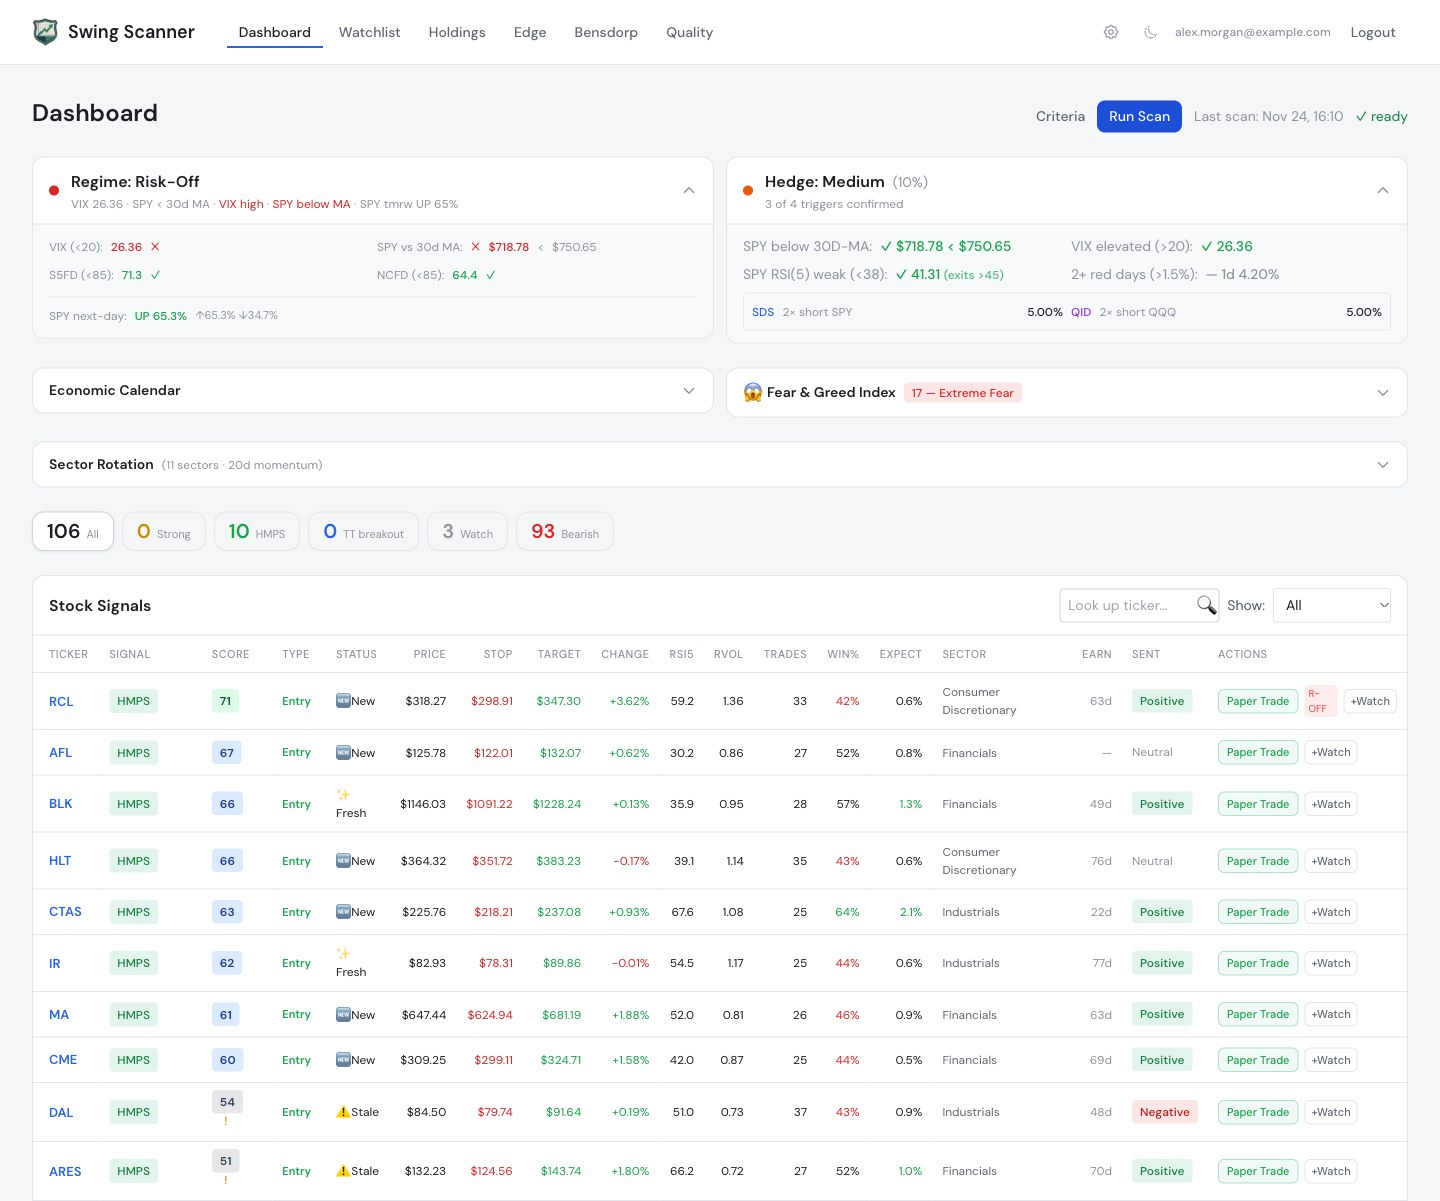
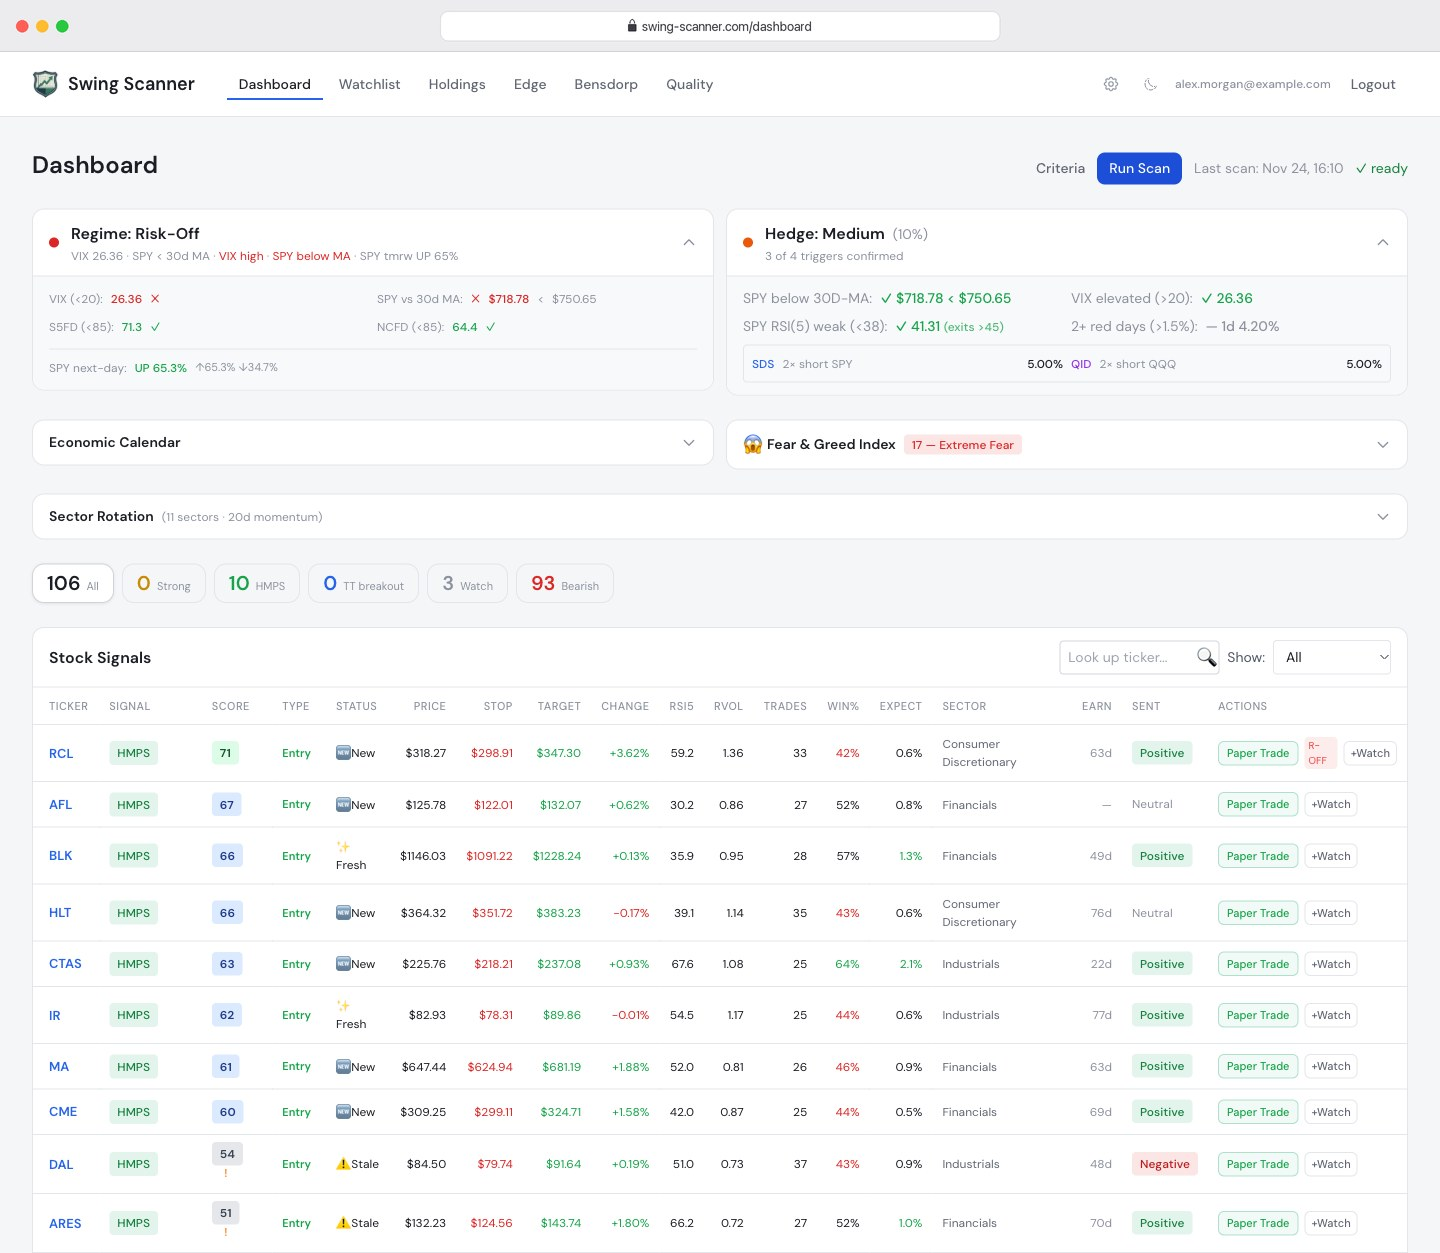
With broswer window

diff --git a/swingscanner.html b/swingscanner.html
@@ -229,6 +229,8 @@
         @media (max-width: 768px) {
             .findings, .img-pair { grid-template-columns: 1fr; }
         }
+        /* Screenshots shown inside a browser window frame */
+        .case-section img.framed, .hero-image img.framed { border: none; border-radius: 10px; box-shadow: var(--shadow-hover); }
     </style>
 
 <body>
@@ -267,7 +269,7 @@
     </section>
 
     <div class="hero-image">
-        <img src="images/swingscanner/hero.jpg" alt="Swing Scanner dashboard in dark mode showing market regime, hedge level, and graded stock signals">
+        <img class="framed" src="images/swingscanner/hero.jpg" alt="Swing Scanner dashboard in dark mode showing market regime, hedge level, and graded stock signals">
     </div>
 
     <section class="stats-bar">
@@ -303,9 +305,9 @@
                 <li><strong>Enter and manage.</strong> Open positions through the brokerage and take profits in stages, with protective stops that move as the trade develops.</li>
                 <li><strong>Notify.</strong> Tell each user what happened, on their phone.</li>
             </ol>
-            <img src="images/swingscanner/dashboard.jpg" alt="Dashboard with market regime, hedge level and a table of graded signals">
+            <img class="framed" src="images/swingscanner/dashboard.jpg" alt="Dashboard with market regime, hedge level and a table of graded signals">
             <p class="caption">The dashboard: market conditions at the top, then every signal with its grade and status.</p>
-            <img src="images/swingscanner/edge.jpg" alt="Edge strategies page with tabs for additional strategy signals">
+            <img class="framed" src="images/swingscanner/edge.jpg" alt="Edge strategies page with tabs for additional strategy signals">
             <p class="caption">Additional strategies live on their own page, separate from the signals that can open positions.</p>
         </div>
 
@@ -317,11 +319,11 @@
 
             <h3>Show the Why, Not Just the What</h3>
             <p>A score alone invites blind trust. So every signal carries its evidence alongside it, and the rules behind every decision are documented in plain language, one click away from the dashboard. When the logic changes, the explanation changes with it.</p>
-            <img src="images/swingscanner/criteria.jpg" alt="Signal Criteria popup over the dashboard, explaining the signal rules">
+            <img class="framed" src="images/swingscanner/criteria.jpg" alt="Signal Criteria popup over the dashboard, explaining the signal rules">
 
             <h3>Positions as a Process</h3>
             <p>A position isn't a single row with a profit number; it moves through stages. The Holdings page shows where each position is in its exit plan, how it is protected, and what happens next.</p>
-            <img src="images/swingscanner/holdings.jpg" alt="Holdings page showing positions by exit stage with stops and targets">
+            <img class="framed" src="images/swingscanner/holdings.jpg" alt="Holdings page showing positions by exit stage with stops and targets">
             <p class="caption">Account figures and positions in these screenshots are sample data.</p>
 
             <h3>Always On, Including on a Phone</h3>
